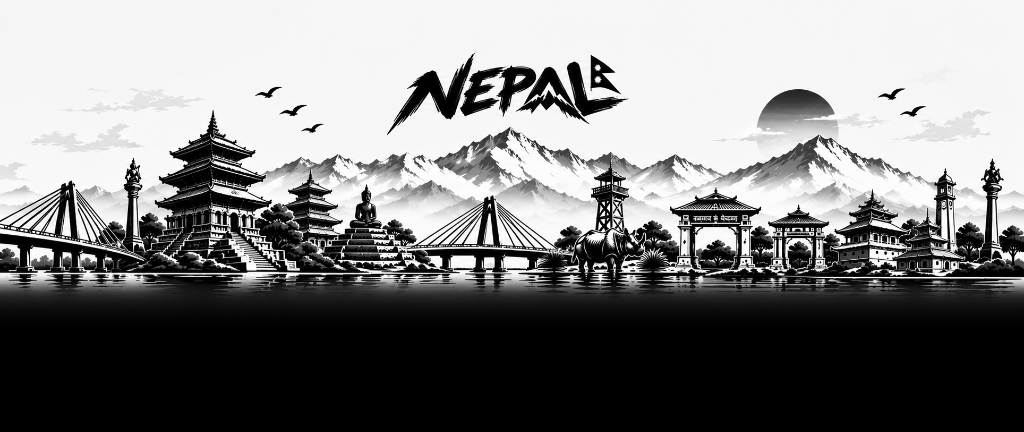
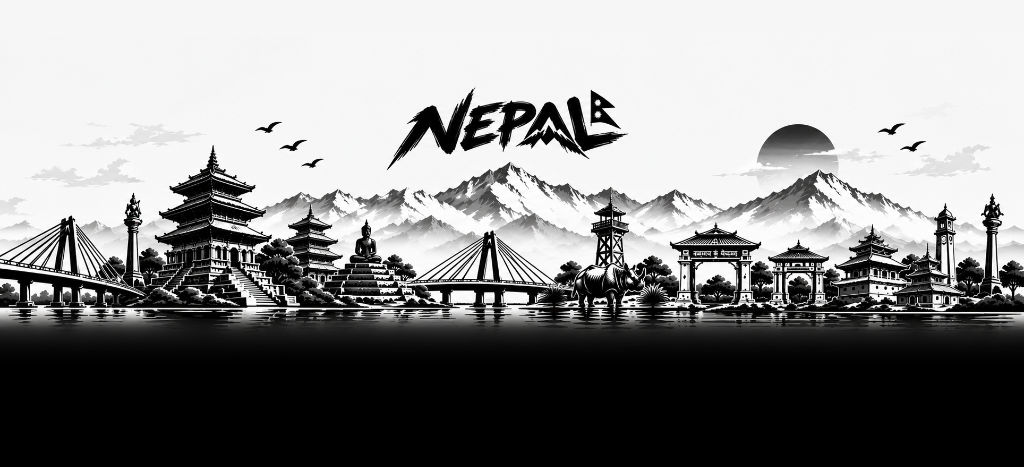
Fix NEPAL text clipping by adding top sky headroom and pinning background to center top

diff --git a/site/assets/css/main.css b/site/assets/css/main.css
@@ -14193,7 +14193,7 @@ body.tp-magic-cursor #magic-cursor {
 /* Footer Top Nepal Illustration & Overlay */
 .tp-footer-top {
   position: relative;
-  background-position: center 25% !important;
+  background-position: center top !important;
   background-repeat: no-repeat !important;
   background-size: cover !important;
   background-color: #000000 !important;
